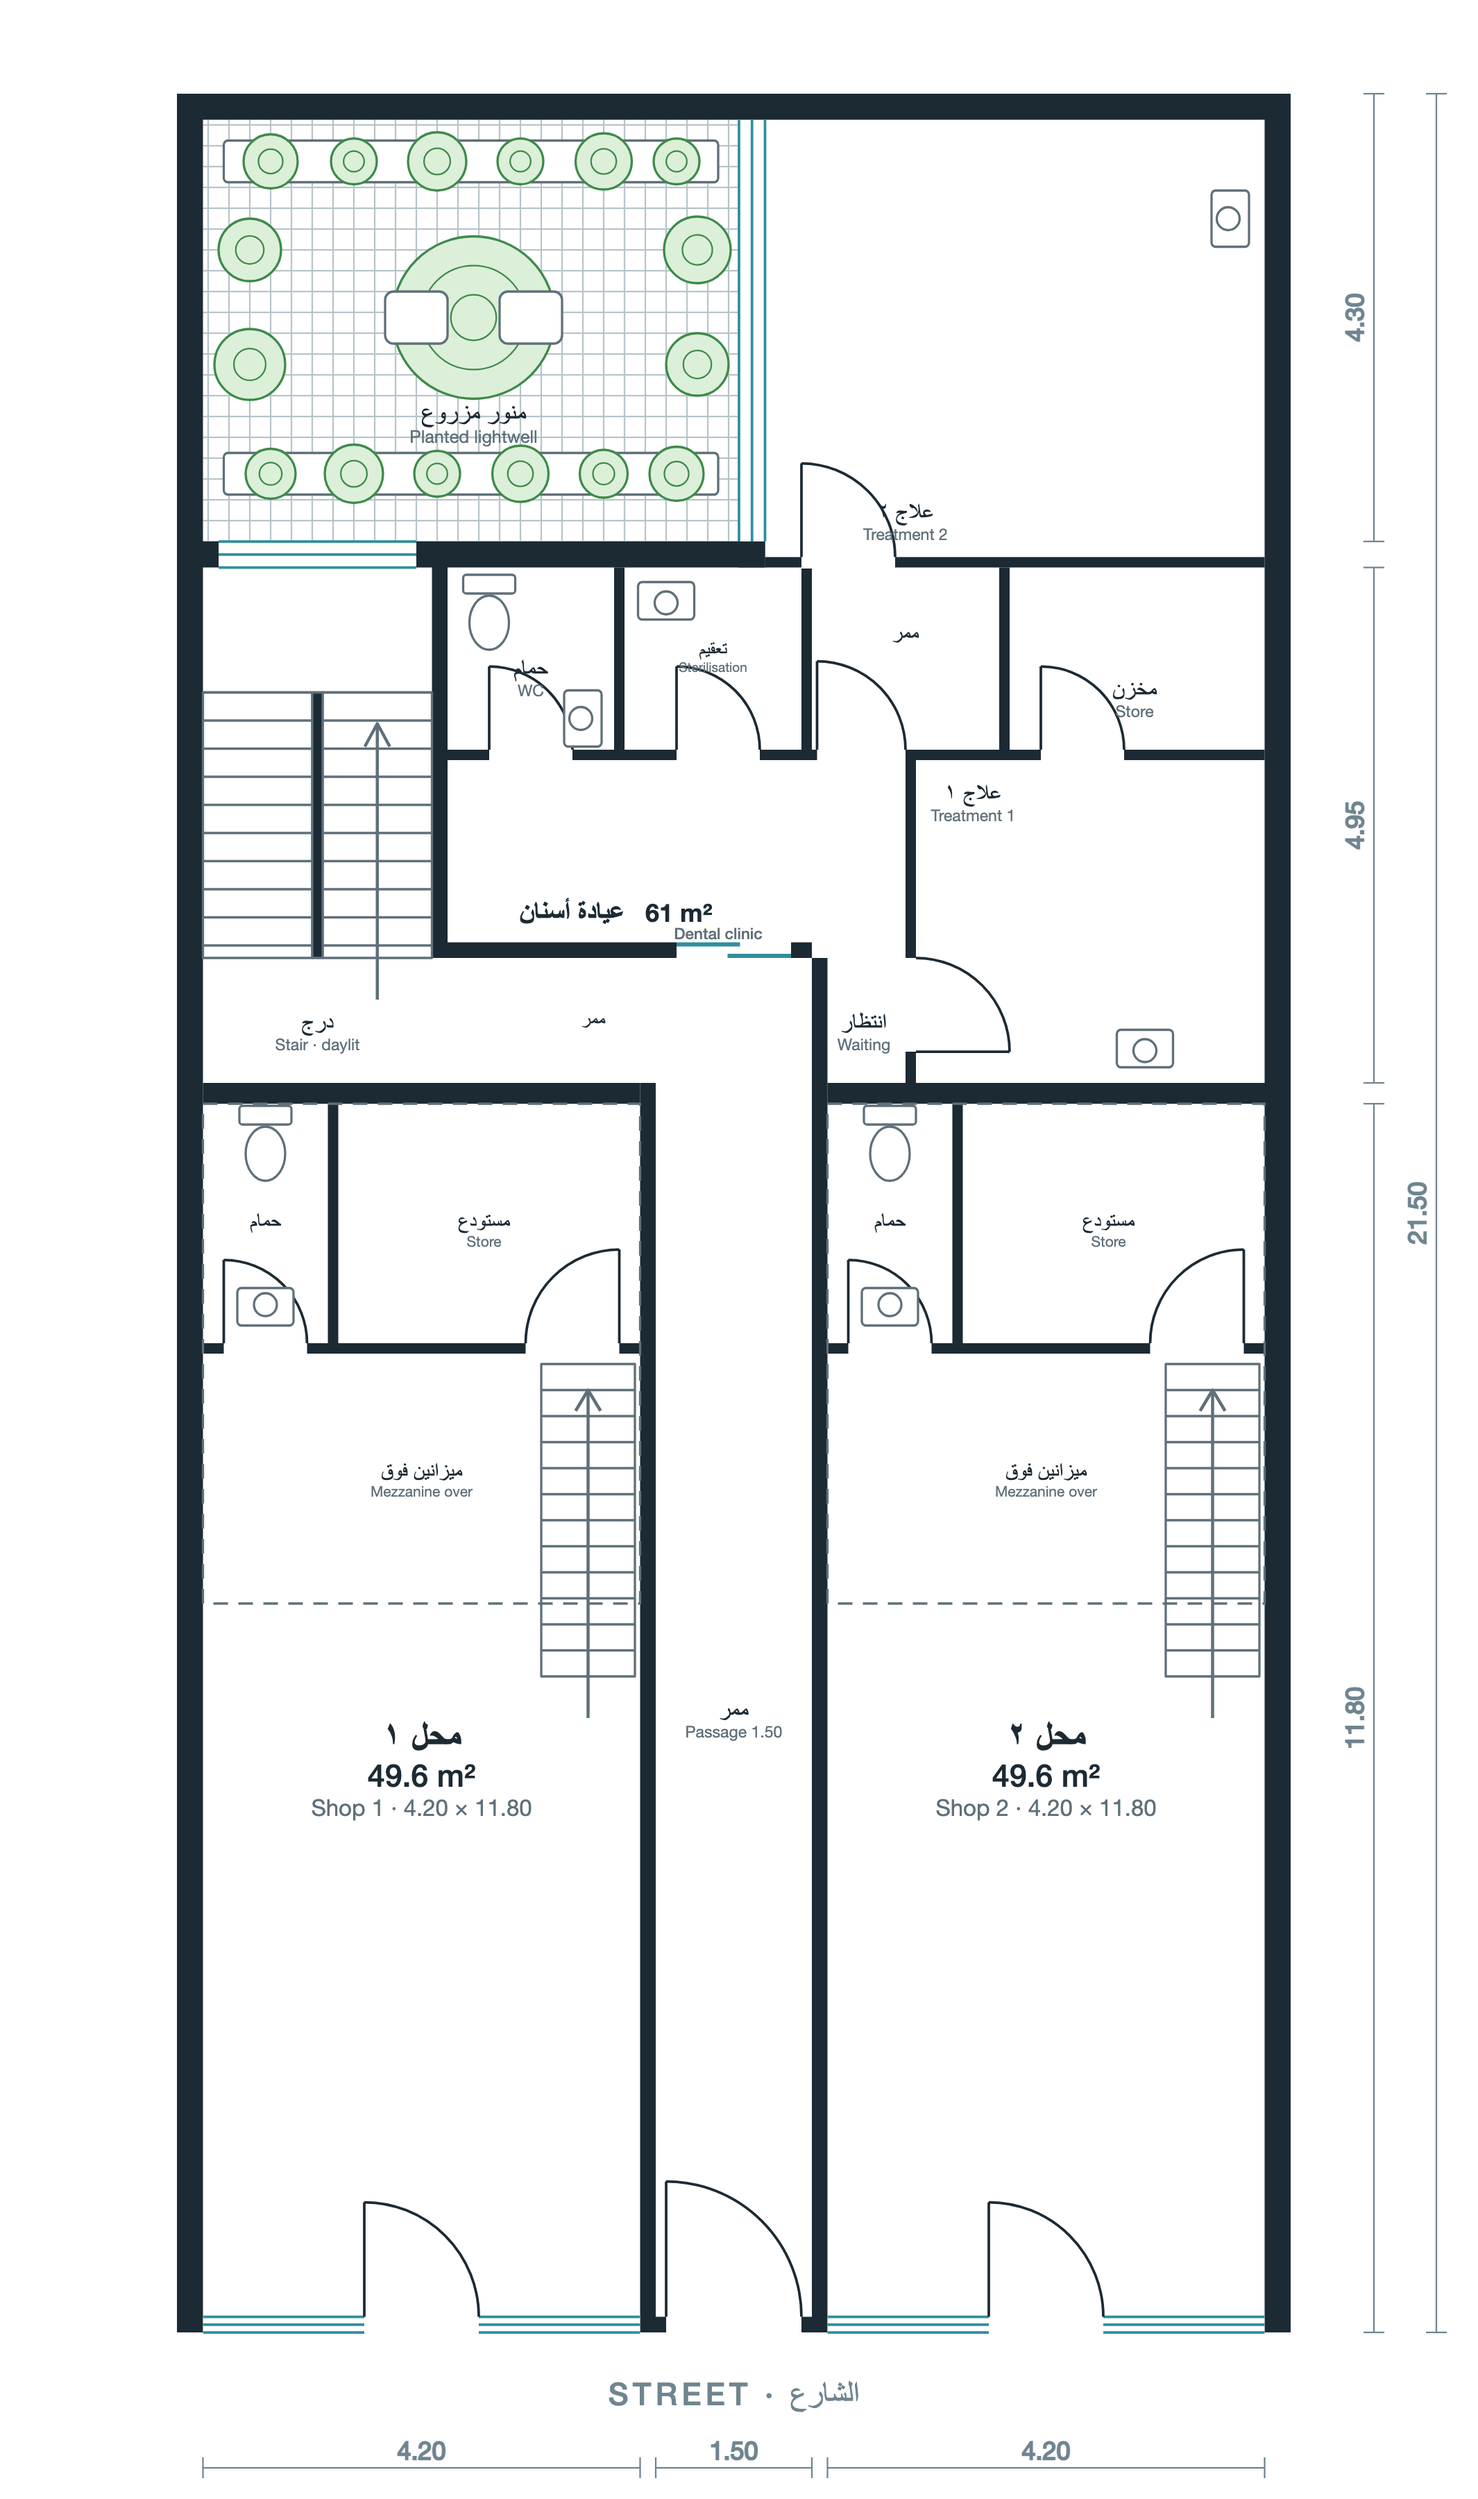
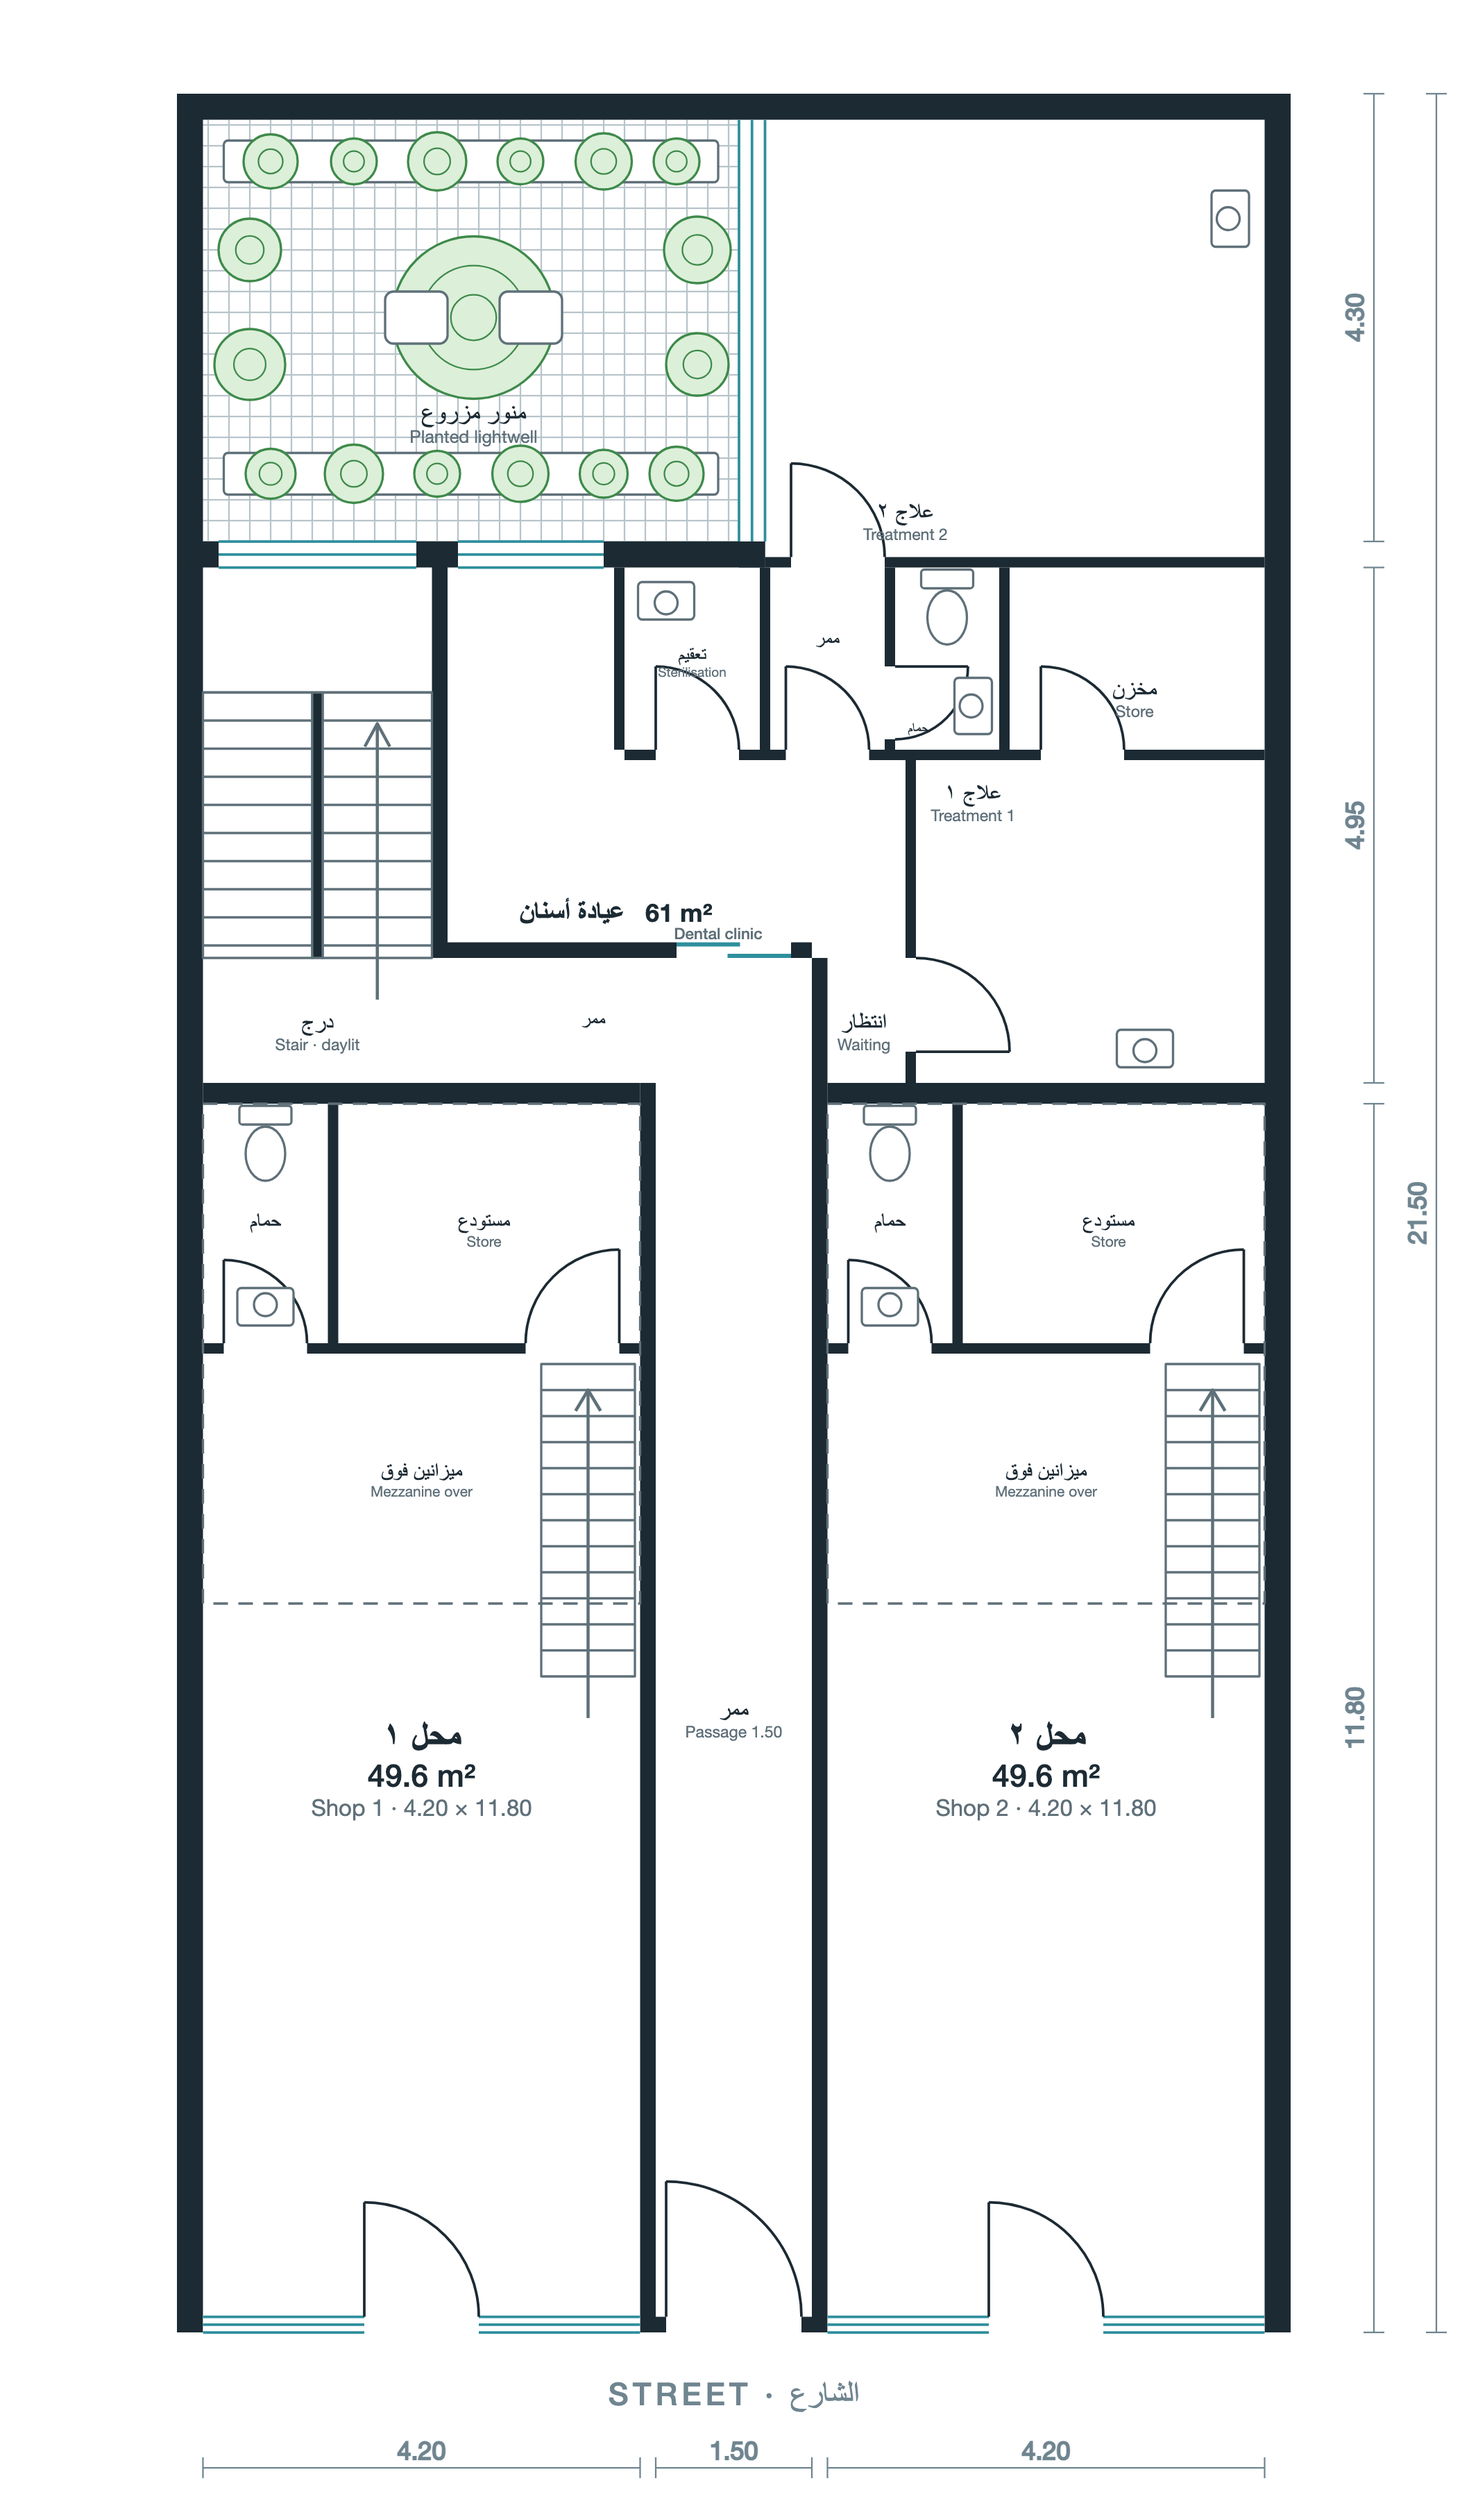
Move the clinic WC off the garden wall
On the Option 3 ground floor the patients' WC now sits in the right-hand
corner of the service row, against the store wall and off the short hall.
The wall it stood on, facing the planted lightwell, is glazed, so the
waiting room runs up to the garden. The sterilisation room narrows to
1.30 m to keep the hall at 1.10 m.

Claude-Session: https://claude.ai/code/session_01LqRNDqLmS9HuGRKSh3RGhW

diff --git a/option-3/plans.py b/option-3/plans.py
@@ -51,12 +51,16 @@ def clinic(p, cross=False):
         p.vwall(245, 430, 950, PW)
         p.door_v(245, 260, 850, 90, "b", "r")
     p.vwall(700, 640, 950, IW); p.door_v(700, 710, 830, 90, "b", "r")
-    p.hwall(260, 1045, 630, IW)
-    p.vwall(420, 455, 630, IW); p.door_h(300, 630, 640, 80, "l", "u")
-    p.vwall(600, 455, 630, IW); p.door_h(480, 630, 640, 80, "l", "u")
-    p.door_h(615, 630, 640, 85, "l", "u")
-    p.vwall(790, 455, 630, IW); p.door_h(830, 630, 640, 80, "l", "u")
-    p.hwall(565, 1045, 445, IW); p.door_h(600, 445, 455, 90, "l", "u")
+    # the row along the lightwell wall: sterilisation, a short hall, the WC against
+    # the store wall, the store; the waiting room reaches the garden wall on the left
+    p.hwall(430, 1045, 630, IW)
+    p.glass_h(270, 410, 430, 455)                               # waiting room onto the garden
+    p.vwall(420, 455, 630, IW)                                  # sterilisation
+    p.vwall(560, 455, 630, IW); p.door_h(460, 630, 640, 80, "l", "u")
+    p.door_h(585, 630, 640, 80, "l", "u")                       # waiting -> hall
+    p.vwall(680, 455, 630, IW); p.door_v(680, 690, 550, 70, "t", "r")   # WC off the hall
+    p.vwall(790, 455, 630, IW); p.door_h(830, 630, 640, 80, "l", "u")   # store
+    p.hwall(565, 1045, 445, IW); p.door_h(590, 445, 455, 90, "l", "u")
     p.glass_v(540, 565, 25, 430)
     if cross:
         p.counter(430, 700, 180, 60); p.chair(520, 670, 0)
@@ -69,16 +73,16 @@ def clinic(p, cross=False):
         p.sofa(270, 650, 60, 190, "l"); p.rect(350, 780, 60, 60, rx=6); p.sofa(400, 880, 200, 60, "b")
         p.unit(560, 800, "عيادة أسنان", "66 m²", "Dental clinic")
     p.counter(830, 890, 200, 55); p.basin(930, 917, 0); p.dental_chair(860, 760, 90)
-    p.toilet(300, 500, 0); p.basin(390, 600, 90)
-    p.counter(435, 460, 160, 55); p.basin(470, 487, 0); p.rect(545, 465, 45, 45, rx=4)
+    p.toilet(740, 495, 0); p.basin(765, 588, 90)
+    p.counter(435, 460, 120, 55); p.basin(470, 487, 0); p.rect(510, 465, 40, 40, rx=4)
     p.shelf(805, 460, 235, 40); p.shelf(1000, 505, 40, 120)
     p.counter(985, 40, 55, 250); p.basin(1012, 120, 90); p.dental_chair(800, 250)
     p.rect(590, 380, 50, 50, rx=4)
     if p.furniture: p.label(615, 448, "X-ray", size=14, color=FURN)
     p.room(660, 900, "انتظار", "Waiting", 22)
     p.room(765, 680, "علاج ١", "Treatment 1", 22); p.room(700, 410, "علاج ٢", "Treatment 2", 22)
-    p.room(340, 560, "حمام", "WC", 22); p.room(515, 540, "تعقيم", "Sterilisation", 18)
-    p.room(920, 580, "مخزن", "Store", 22); p.room(700, 525, "ممر", None, 20)
+    p.label(712, 614, "حمام", size=13); p.room(495, 545, "تعقيم", "Sterilisation", 18)
+    p.room(920, 580, "مخزن", "Store", 22); p.room(625, 530, "ممر", None, 18)
 
 
 def ground():
